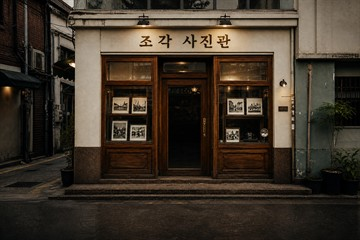
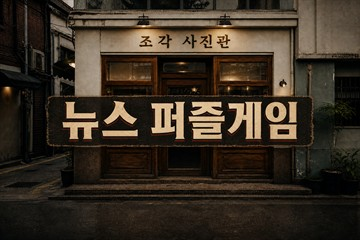
조각 사진관 공유 썸네일 적용

diff --git a/arcade/puzzle/index.html b/arcade/puzzle/index.html
@@ -15,8 +15,8 @@
   <meta property="og:title" content="조각 사진관 — 사진을 맞추면 오늘의 뉴스가 보입니다">
   <meta property="og:description" content="최신 뉴시스 사진으로 즐기는 오늘의 조각 퍼즐">
   <meta property="og:url" content="https://visual.newsis.com/arcade/puzzle/"><meta property="og:site_name" content="VISUAL NEWSIS">
-  <meta property="og:image" content="https://visual.newsis.com/arcade/puzzle/assets/photos/puzzle-01.jpg"><meta property="og:image:width" content="960"><meta property="og:image:height" content="640">
-  <meta name="twitter:card" content="summary_large_image"><meta name="twitter:image" content="https://visual.newsis.com/arcade/puzzle/assets/photos/puzzle-01.jpg">
+  <meta property="og:image" content="https://visual.newsis.com/arcade/puzzle/assets/puzzle-share-1200x800.jpg?v=20260807-1"><meta property="og:image:secure_url" content="https://visual.newsis.com/arcade/puzzle/assets/puzzle-share-1200x800.jpg?v=20260807-1"><meta property="og:image:type" content="image/jpeg"><meta property="og:image:width" content="1200"><meta property="og:image:height" content="800"><meta property="og:image:alt" content="조각 사진관 뉴스 퍼즐게임">
+  <meta name="twitter:card" content="summary_large_image"><meta name="twitter:image" content="https://visual.newsis.com/arcade/puzzle/assets/puzzle-share-1200x800.jpg?v=20260807-1"><meta name="twitter:image:alt" content="조각 사진관 뉴스 퍼즐게임">
   <link rel="icon" type="image/png" href="https://image.newsis.com/n_www/images/ci/2024/favicon.png">
   <link rel="preconnect" href="https://fonts.googleapis.com"><link rel="preconnect" href="https://fonts.gstatic.com" crossorigin>
   <link href="https://fonts.googleapis.com/css2?family=Noto+Serif+KR:wght@500;600;700;900&family=Noto+Sans+KR:wght@400;500;600;700;800&display=swap" rel="stylesheet">
